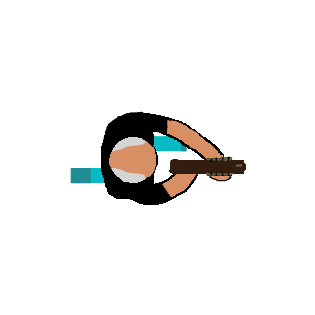
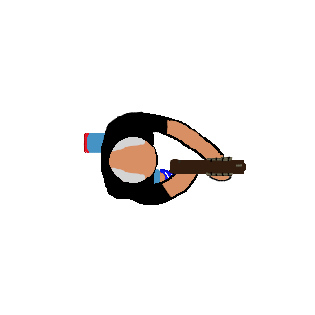
Update animation

diff --git a/main.py b/main.py
@@ -16,11 +16,15 @@ input_manager.add_axis('Rotation', {
     pygame.K_e: 1,
 })
 
-obj = GameObject()
-obj.add_component(ControllerComponent(15, obj))
-obj.add_component(ShooterComponent(50, 3, 0.15, obj))
-obj.add_component(ImageComponent('images/player1.png', False, obj))
-obj.add_component(AnimationHuman([['images/player1.png', 'images/player4.png'], ['images/player2.png', 'images/player3.png'], ['images/player1.png']], 10,obj))
+player = GameObject()
+player.add_component(ControllerComponent(15, player))
+player.add_component(ShooterComponent(50, 3, 0.15, player))
+player.add_component(ImageComponent('images/player1.png', False, player))
+player.add_component(AnimationHuman([['images/player1.png', 'images/player4.png'],
+                                     ['images/player2.png', 'images/player3.png'],
+                                     ['images/player1.png']], 10, player))#[Анимация состояния покоя, ходьбы, стрельбы], скорость
+
+
 
 for y in range(-8, 8):
     for x in range(-8, 8):
@@ -29,7 +33,10 @@ for y in range(-8, 8):
 
         scene.add_object(bg)
 
-scene.add_object(obj)
+scene.add_object(player)
+scene.add_object(stena)
+
+
 
 clock = pygame.time.Clock()
 while True:
@@ -40,6 +47,8 @@ while True:
         if event.type == pygame.QUIT:
             pygame.quit()
             sys.exit()
+
+
 
     scene.update()
     scene.render()

diff --git a/engine/game_objects.py b/engine/game_objects.py
@@ -2,7 +2,6 @@ from engine.base_components import TransformComponent, ImageComponent
 from engine.initialize_engine import width, height
 import pygame
 
-
 class GameObject:
     def __init__(self, x=0, y=0, name='NewObject'):
         self.name = name
@@ -27,6 +26,10 @@ class GameObject:
     def update(self):
         for component in self.components:
             component.update()
+
+    #######################
+    def get_pos(self):
+        return self.transform
 
 
 class Camera(GameObject):

diff --git a/user_components.py b/user_components.py
@@ -120,8 +120,6 @@ class Animation(Component):
 
 
 
-
-
 class AnimationHuman(Animation):
     def __init__(self, images, speed, game_object):
         super().__init__(images, speed, game_object)
@@ -158,3 +156,7 @@ class AnimationHuman(Animation):
             self.speed -= 1
         except:
             pass
+
+
+#class Collider(Component):
+#   def
